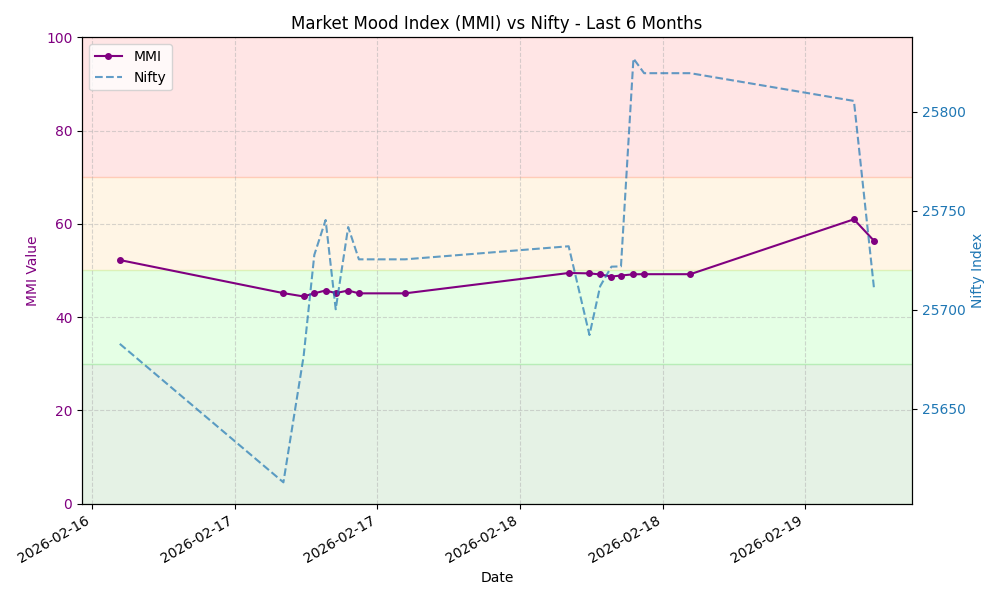
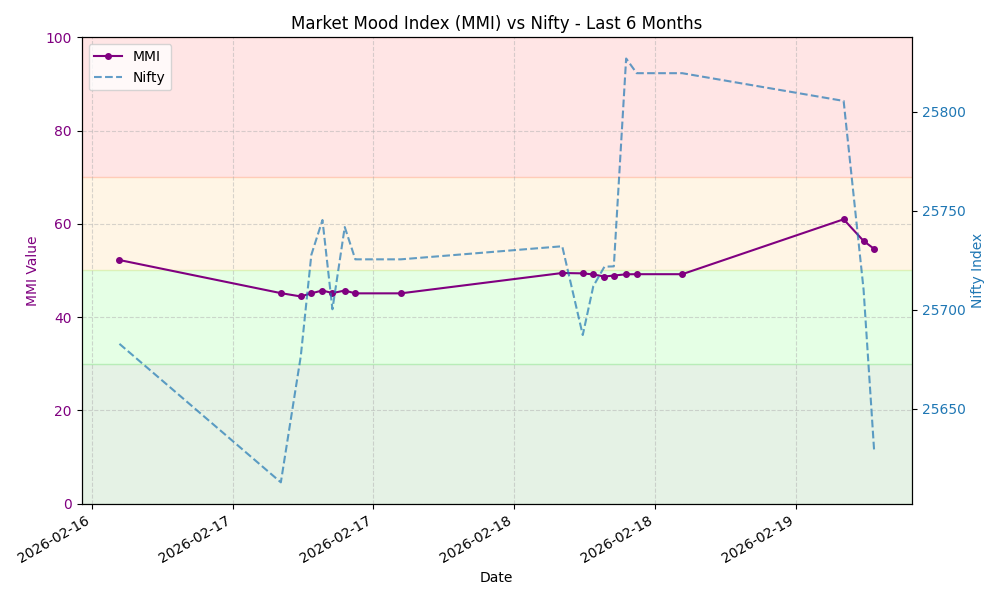
Update MMI data and chart

diff --git a/README.md b/README.md
@@ -7,8 +7,8 @@ This repository automatically fetches the MMI value, stores the history, and gen
 
 ## Latest MMI Value
 
-**56.33** - **Greed**
-<small>Last Updated: 2026-02-19 05:48 UTC</small>
+**54.63** - **Greed**
+<small>Last Updated: 2026-02-19 06:42 UTC</small>
 
 ## MMI Trend (Last 30 Days)
 
